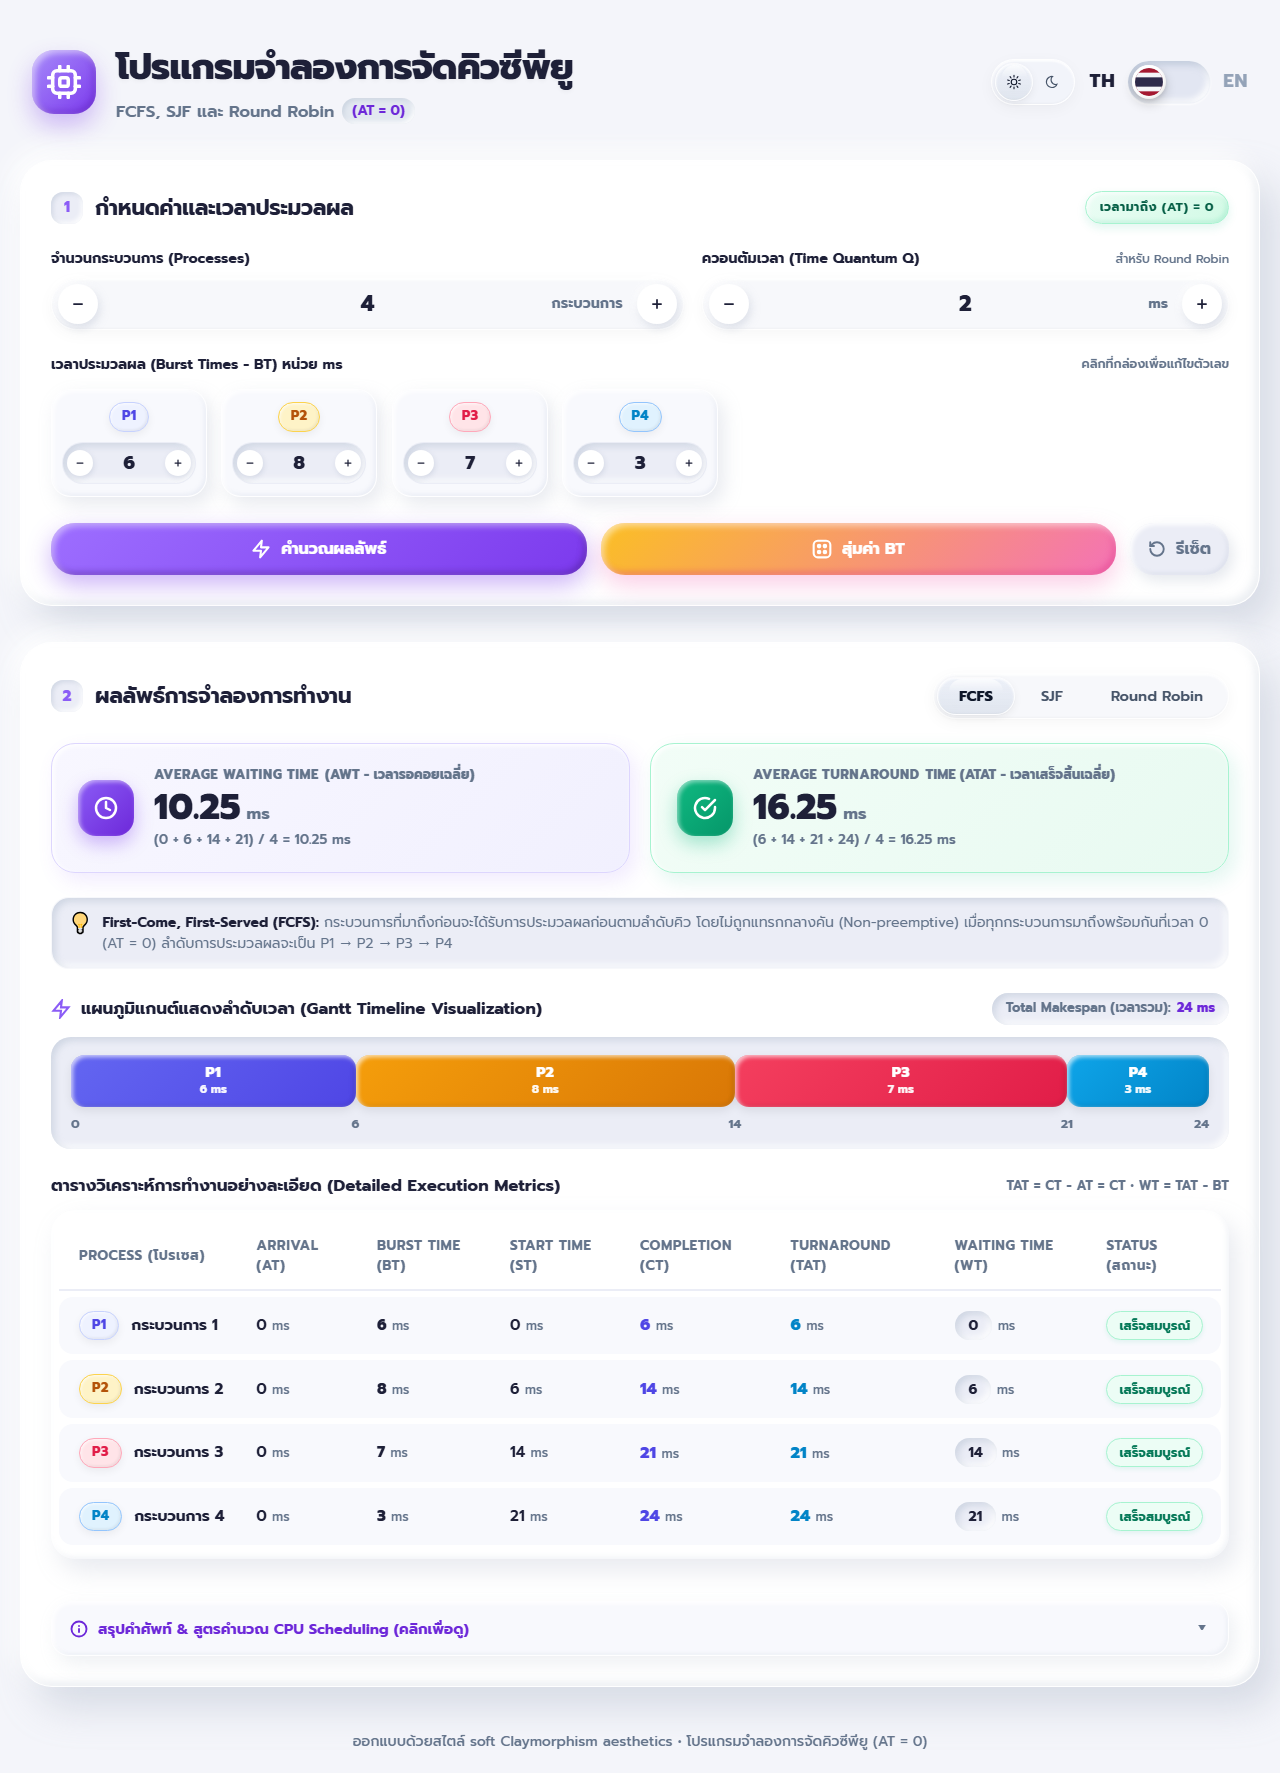
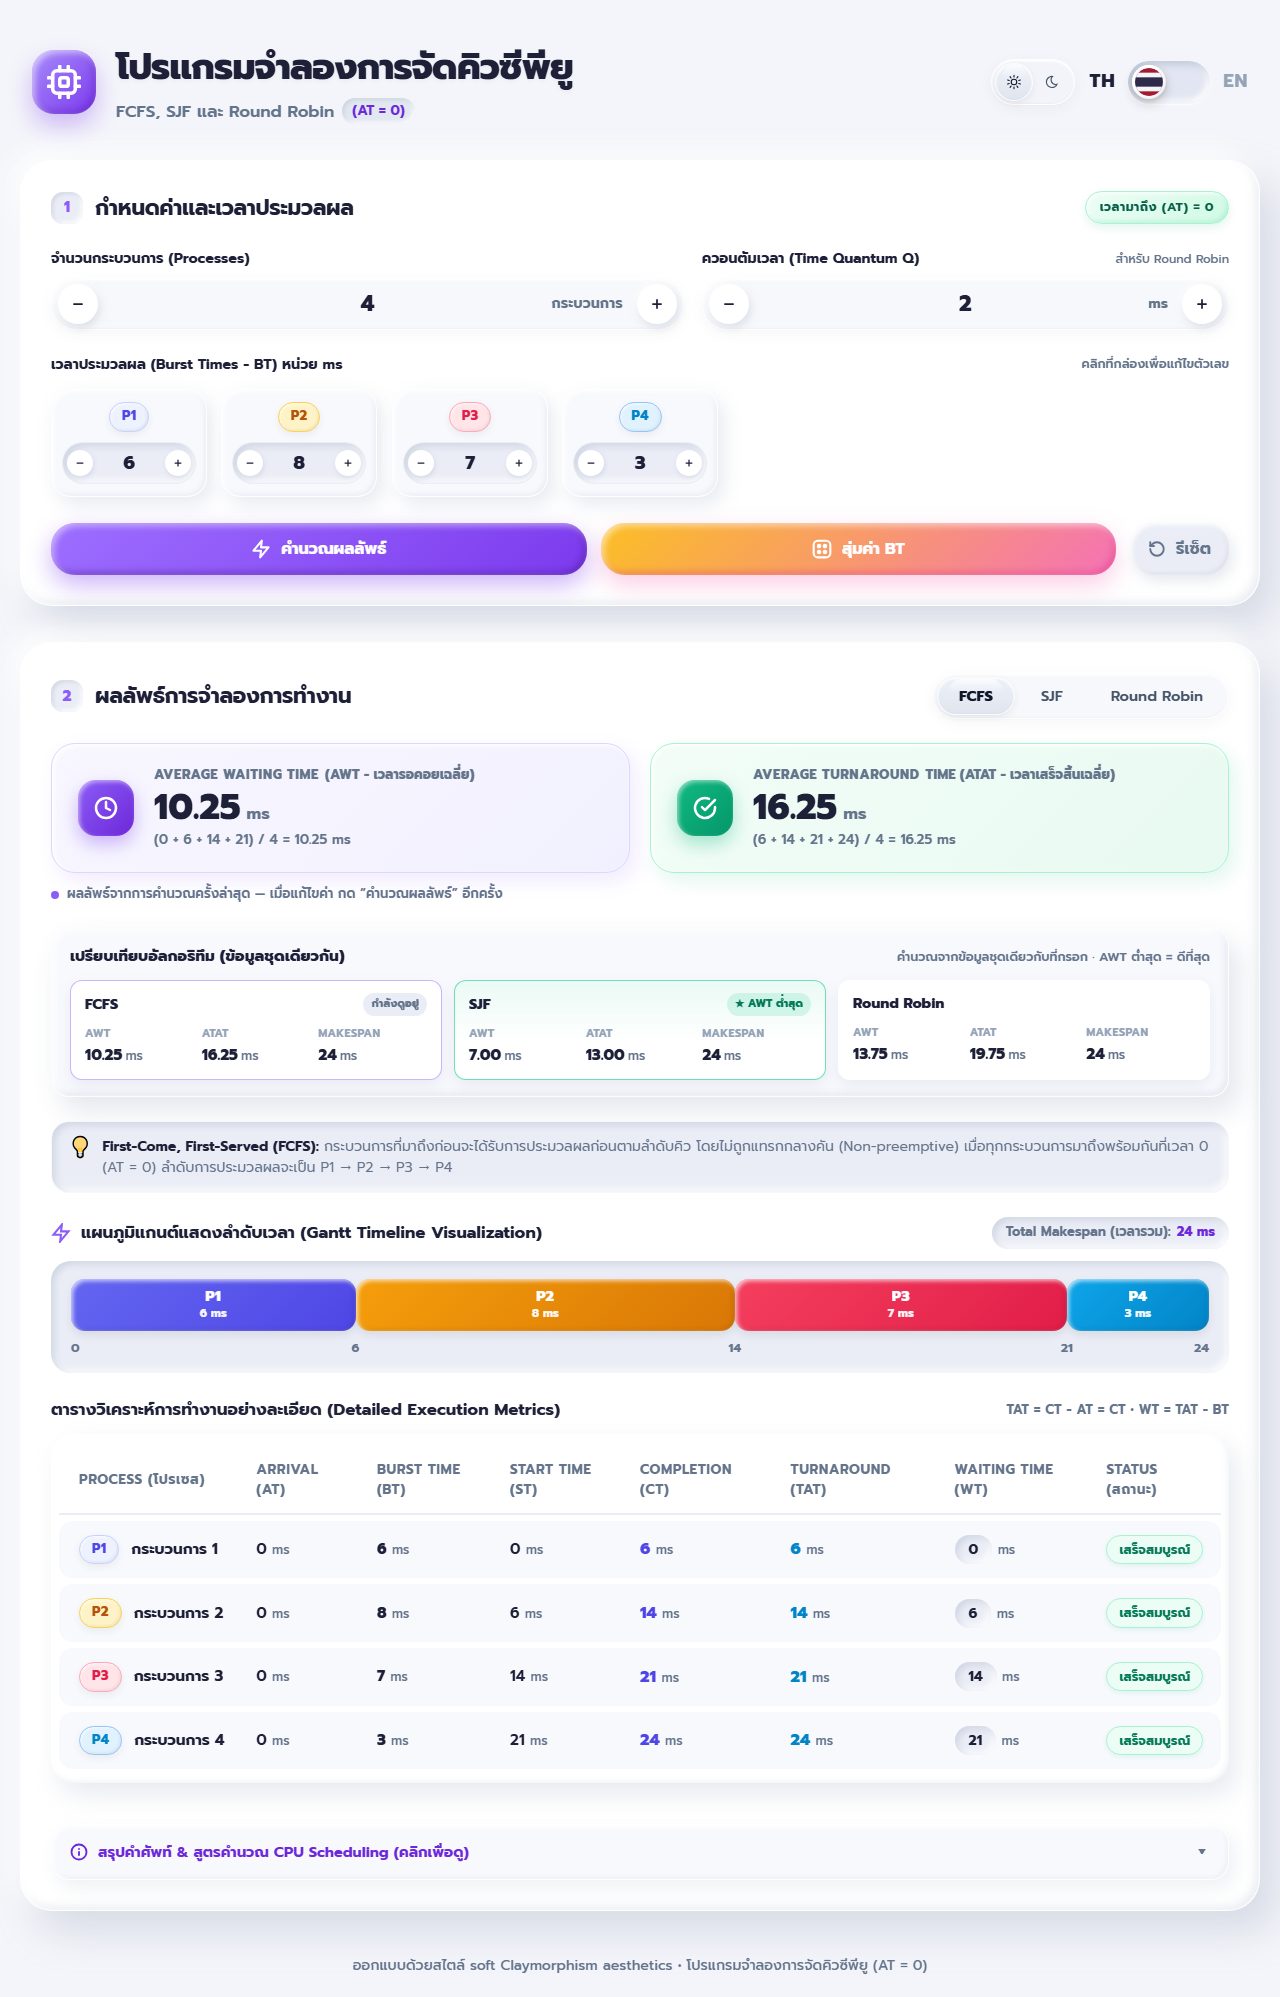
feat(ui): compare the three algorithms side by side
- add an algorithm comparison strip under the summary cards: FCFS, SJF and RR
  computed from the same input, showing AWT / ATAT / makespan, highlighting the
  lowest AWT and marking the algorithm currently on screen
- expose summariseAlgorithms() from app.js and share input reading through
  readSchedulingInputs() instead of duplicating it
- bilingual labels; the strip dims together with the rest of the results when
  they are stale, and re-renders on language change
- refresh the README screenshots and document the new strip

diff --git a/index.html b/index.html
@@ -334,6 +334,15 @@
           <!-- คำอธิบายสถานะผลลัพธ์ (ข้อความมาจาก i18n) -->
           <p class="results-hint" id="results-hint"></p>
 
+          <!-- แถบเปรียบเทียบ: คำนวณครบทั้งสามอัลกอริทึมจากข้อมูลชุดเดียวกับที่กรอก -->
+          <section class="compare-strip" id="compare-strip" aria-labelledby="compare-title">
+            <div class="compare-head">
+              <span class="compare-title" id="compare-title"></span>
+              <span class="compare-note" id="compare-note"></span>
+            </div>
+            <div class="compare-grid" id="compare-grid"></div>
+          </section>
+
           <!-- Algorithm Explanation Context Banner -->
           <div class="algo-explanation-box" id="algo-explanation">
             <span class="algo-info-icon" aria-hidden="true">💡</span>
@@ -492,6 +501,10 @@
           labelAtatTitle: "AVERAGE TURNAROUND",
           labelAtatSub: "TIME (ATAT - เวลาเสร็จสิ้นเฉลี่ย)",
           resultsHint: "ผลลัพธ์จากการคำนวณครั้งล่าสุด — เมื่อแก้ไขค่า กด “คำนวณผลลัพธ์” อีกครั้ง",
+          compareTitle: "เปรียบเทียบอัลกอริทึม (ข้อมูลชุดเดียวกัน)",
+          compareNote: "คำนวณจากข้อมูลชุดเดียวกับที่กรอก · AWT ต่ำสุด = ดีที่สุด",
+          compareBest: "AWT ต่ำสุด",
+          compareCurrent: "กำลังดูอยู่",
           labelGanttTitle: "แผนภูมิแกนต์แสดงลำดับเวลา (Gantt Timeline Visualization)",
           labelMakespanText: "Total Makespan (เวลารวม):",
           ganttChartAria: "แผนภูมิแกนต์แสดงลำดับการทำงานของซีพียู",
@@ -574,6 +587,10 @@
           labelAtatTitle: "AVERAGE TURNAROUND",
           labelAtatSub: "TIME (ATAT)",
           resultsHint: "Results from the last calculation — press “Calculate” again after editing any value.",
+          compareTitle: "Algorithm comparison (same input)",
+          compareNote: "Computed from the same input above · lowest AWT is best",
+          compareBest: "Lowest AWT",
+          compareCurrent: "Viewing now",
           labelGanttTitle: "Gantt Timeline Visualization",
           labelMakespanText: "Total Makespan:",
           ganttChartAria: "Gantt timeline chart displaying CPU execution sequence",
@@ -653,6 +670,8 @@
           'label-atat-title': t.labelAtatTitle,
           'label-atat-sub': t.labelAtatSub,
           'results-hint': t.resultsHint,
+          'compare-title': t.compareTitle,
+          'compare-note': t.compareNote,
           'label-gantt-title': t.labelGanttTitle,
           'label-makespan-text': t.labelMakespanText,
           'label-table-title': t.labelTableTitle,
@@ -834,6 +853,9 @@
         if (typeof updateCapsuleGlider === 'function') {
           updateCapsuleGlider(false);
         }
+
+        // แถบเปรียบเทียบ: อัปเดตภาษาของป้ายด้วย (ถ้าข้อมูลยังไม่ถูกต้องจะใช้ผลชุดเดิม)
+        renderComparison();
       }
 
       /* ==========================================================================
@@ -1034,6 +1056,71 @@
           return;
         }
         window.runSchedulingAlgorithm(algoKey || 'fcfs');
+        renderComparison();
+      }
+
+      // ผลสรุปของทั้งสามอัลกอริทึมชุดล่าสุด (ใช้วาดซ้ำเมื่อสลับภาษา)
+      let lastComparison = null;
+
+      /** ตรวจข้อมูลในฟอร์มแบบเร็ว ๆ ก่อนวาดแถบเปรียบเทียบ */
+      function inputsLookValid() {
+        const tqInput = document.getElementById('time-quantum');
+        const tq = parseInt(tqInput ? tqInput.value : '', 10);
+        if (!(tq >= 1 && tq <= 20)) return false;
+
+        const fields = document.querySelectorAll('.burst-number-input');
+        if (!fields.length || fields.length > 10) return false;
+
+        return Array.from(fields).every((inp) => {
+          const v = parseInt(inp.value, 10);
+          return Number.isInteger(v) && v >= 1 && v <= 50;
+        });
+      }
+
+      /**
+       * วาดแถบเปรียบเทียบ: ให้ engine คำนวณทั้งสามอัลกอริทึมจากข้อมูลชุดเดียวกัน
+       * ถ้าข้อมูลในฟอร์มยังไม่ถูกต้อง จะวาดซ้ำจากผลชุดล่าสุด (เพื่ออัปเดตภาษาเท่านั้น)
+       */
+      function renderComparison() {
+        const grid = document.getElementById('compare-grid');
+        if (!grid) return;
+
+        if (inputsLookValid() && typeof window.summariseAlgorithms === 'function') {
+          const fresh = window.summariseAlgorithms();
+          if (fresh && fresh.length) lastComparison = fresh;
+        }
+        if (!lastComparison) return;
+
+        const names = { fcfs: 'FCFS', sjf: 'SJF', rr: 'Round Robin' };
+        const activeTab = document.querySelector('.capsule-tab.active');
+        const activeKey = activeTab ? activeTab.getAttribute('data-algorithm') : 'fcfs';
+        const best = lastComparison.reduce((a, b) => (b.awt < a.awt ? b : a), lastComparison[0]);
+
+        grid.innerHTML = lastComparison.map((s) => {
+          const classes = ['compare-card'];
+          if (s.key === best.key) classes.push('is-best');
+          if (s.key === activeKey) classes.push('is-active');
+
+          let badge = '';
+          if (s.key === best.key) {
+            badge = `<span class="compare-badge">★ ${simText('compareBest', 'Lowest AWT')}</span>`;
+          } else if (s.key === activeKey) {
+            badge = `<span class="compare-badge compare-badge--muted">${simText('compareCurrent', 'Viewing now')}</span>`;
+          }
+
+          return `
+            <div class="${classes.join(' ')}">
+              <div class="compare-card-head">
+                <span class="compare-name">${names[s.key] || s.key}</span>
+                ${badge}
+              </div>
+              <dl class="compare-metrics">
+                <div><dt>AWT</dt><dd>${s.awt.toFixed(2)} <span class="unit-text">ms</span></dd></div>
+                <div><dt>ATAT</dt><dd>${s.atat.toFixed(2)} <span class="unit-text">ms</span></dd></div>
+                <div><dt>Makespan</dt><dd>${s.makespan} <span class="unit-text">ms</span></dd></div>
+              </dl>
+            </div>`;
+        }).join('');
       }
 
       // ปุ่มกดค้าง: เก็บเฉพาะ "ตัวหยุด" ที่ active อยู่ตัวเดียว

diff --git a/styles.css b/styles.css
@@ -1193,12 +1193,14 @@ body {
 
 /* สถานะ "ผลลัพธ์เก่า": ผู้ใช้แก้ค่าแต่ยังไม่กดคำนวณ → ลดความเด่นของผลลัพธ์ */
 #panel-content.is-stale .metrics-row,
+#panel-content.is-stale .compare-strip,
 #panel-content.is-stale .algo-explanation-box,
 #panel-content.is-stale .gantt-section,
 #panel-content.is-stale .table-section {
   opacity: 0.55;
 }
 #panel-content .metrics-row,
+#panel-content .compare-strip,
 #panel-content .algo-explanation-box,
 #panel-content .gantt-section,
 #panel-content .table-section {
@@ -1206,6 +1208,112 @@ body {
 }
 #panel-content.is-stale .results-hint::before {
   background: #F59E0B; /* ส้ม = ต้องคำนวณใหม่ */
+}
+
+/* ==========================================================================
+   Algorithm Comparison Strip
+   เทียบ FCFS / SJF / RR ด้วยข้อมูลชุดเดียวกัน (ตัวเลขมาจาก engine จริง)
+   ========================================================================== */
+.compare-strip {
+  background: var(--bg-card-alt);
+  border-radius: var(--radius-md);
+  padding: 16px 18px;
+  box-shadow: var(--clay-card-subtle);
+  border: 1px solid rgba(255, 255, 255, 0.7);
+}
+.compare-head {
+  display: flex;
+  align-items: baseline;
+  justify-content: space-between;
+  gap: 10px;
+  flex-wrap: wrap;
+  margin-bottom: 12px;
+}
+.compare-title {
+  font-family: var(--font-heading);
+  font-weight: 800;
+  font-size: 0.95rem;
+  color: var(--text-main);
+}
+.compare-note {
+  font-size: 0.78rem;
+  font-weight: 600;
+  color: var(--text-muted);
+}
+.compare-grid {
+  display: grid;
+  grid-template-columns: repeat(3, 1fr);
+  gap: 12px;
+}
+.compare-card {
+  background: var(--bg-card);
+  border: 1.5px solid transparent;
+  border-radius: var(--radius-sm);
+  padding: 12px 14px;
+  box-shadow: 0 6px 14px rgba(166, 175, 195, 0.18);
+}
+.compare-card.is-active {
+  border-color: rgba(139, 92, 246, 0.45);
+}
+.compare-card.is-best {
+  border-color: rgba(52, 211, 153, 0.7);
+  background:
+    linear-gradient(180deg, rgba(52, 211, 153, 0.1), transparent 62%),
+    var(--bg-card);
+}
+.compare-card-head {
+  display: flex;
+  align-items: center;
+  justify-content: space-between;
+  gap: 8px;
+  margin-bottom: 10px;
+}
+.compare-name {
+  font-family: var(--font-heading);
+  font-weight: 800;
+  font-size: 0.9rem;
+  color: var(--text-main);
+}
+.compare-badge {
+  font-size: 0.68rem;
+  font-weight: 800;
+  color: #047857;
+  background: rgba(52, 211, 153, 0.18);
+  border-radius: var(--radius-pill);
+  padding: 3px 8px;
+  white-space: nowrap;
+}
+.compare-badge--muted {
+  color: var(--text-muted);
+  background: var(--bg-inset);
+}
+.compare-metrics {
+  display: grid;
+  grid-template-columns: repeat(3, 1fr);
+  gap: 8px;
+  margin: 0;
+}
+.compare-metrics dt {
+  font-size: 0.68rem;
+  font-weight: 700;
+  letter-spacing: 0.03em;
+  text-transform: uppercase;
+  color: var(--text-light);
+}
+.compare-metrics dd {
+  margin: 2px 0 0;
+  display: flex;
+  align-items: baseline;
+  gap: 3px;
+  font-family: var(--font-heading);
+  font-weight: 800;
+  font-size: 0.95rem;
+  color: var(--text-main);
+}
+
+/* แถบเปรียบเทียบจัดเรียงเป็นคอลัมน์เดียวบนจอเล็ก */
+@media (max-width: 720px) {
+  .compare-grid { grid-template-columns: 1fr; }
 }
 
 /* ==========================================================================

diff --git a/app.js b/app.js
@@ -250,6 +250,47 @@
   let lastResult = null;
 
   /**
+   * อ่านข้อมูลจากฟอร์มแล้วคืนรายการโปรเซส + Time Quantum
+   * ใช้ร่วมกันระหว่างการคำนวณปกติและแถบเปรียบเทียบอัลกอริทึม
+   * @returns {{processes: Array<{id: string, numId: number, bt: number}>, tq: number}}
+   */
+  function readSchedulingInputs() {
+    const tqInput = document.getElementById('time-quantum');
+    const tq = tqInput ? (parseInt(tqInput.value, 10) || 2) : 2;
+
+    const processes = Array.from(document.querySelectorAll('.burst-number-input')).map((inp, idx) => {
+      let bt = parseInt(inp.value, 10);
+      if (isNaN(bt) || bt <= 0) bt = 1;
+      const numId = idx + 1;
+      return { id: `P${numId}`, numId: numId, bt: bt };
+    });
+
+    return { processes, tq };
+  }
+
+  /**
+   * สรุปผลของทั้งสามอัลกอริทึมจากข้อมูลชุดเดียวกัน (สำหรับแถบเปรียบเทียบ)
+   * @returns {Array<{key: string, awt: number, atat: number, makespan: number}>}
+   */
+  function summariseAlgorithms() {
+    const { processes, tq } = readSchedulingInputs();
+    if (!processes.length) return [];
+
+    const summarise = (key, result) => ({
+      key: key,
+      awt: parseFloat(result.awt),
+      atat: parseFloat(result.atat),
+      makespan: result.totalMakespanNum
+    });
+
+    return [
+      summarise('fcfs', calculateFCFS(processes)),
+      summarise('sjf', calculateSJF(processes)),
+      summarise('rr', calculateRR(processes, tq))
+    ];
+  }
+
+  /**
    * ดึงข้อมูล Input จากหน้าเว็บ ป้อนเข้าสู่อัลกอริทึม และแสดงผลบนหน้าจอ
    * @param {string} algoKey ('fcfs' | 'sjf' | 'rr')
    */
@@ -260,22 +301,8 @@
       || (activeTab ? activeTab.getAttribute('data-algorithm') : 'fcfs')
       || 'fcfs';
 
-    // 1. ตรวจสอบและดึงข้อมูลจากหน้าเว็บ
-    const burstInputs = document.querySelectorAll('.burst-number-input');
-    const tqInput = document.getElementById('time-quantum');
-    const tq = tqInput ? (parseInt(tqInput.value, 10) || 2) : 2;
-
-    const processes = [];
-    burstInputs.forEach((inp, idx) => {
-      let bt = parseInt(inp.value, 10);
-      if (isNaN(bt) || bt <= 0) bt = 1;
-      const numId = idx + 1;
-      processes.push({
-        id: `P${numId}`,
-        numId: numId,
-        bt: bt
-      });
-    });
+    // 1. ดึงข้อมูลจากหน้าเว็บ (โปรเซสที่ bt <= 0 จะถูกบังคับเป็น 1)
+    const { processes, tq } = readSchedulingInputs();
 
     if (processes.length === 0) return;
 
@@ -432,6 +459,7 @@
   window.calculateRR = calculateRR;
   window.runSchedulingAlgorithm = runSchedulingAlgorithm;
   window.rerenderLastResult = rerenderLastResult;
+  window.summariseAlgorithms = summariseAlgorithms;
 
   // หมายเหตุ: การคำนวณรอบแรกถูกสั่งจาก index.html (initBurstInputs → updateLanguage)
   // จึงไม่ต้องใช้ setTimeout รอ DOM แบบเดิมอีก และไม่เกิด race ระหว่างสองไฟล์

diff --git a/README.md b/README.md
@@ -27,6 +27,7 @@ An interactive, responsive CPU-scheduling simulator built with vanilla HTML/CSS/
 - **Gantt timeline** — the bar is a CSS grid whose columns are `BT fr` units, so every block edge lines up exactly with its timestamp. With more than 8 slices the chart switches to a compact mode (smaller radius, slice durations hidden) and the axis thins out its labels instead of overlapping them.
 - **Metrics table** — Arrival Time (always 0), Burst Time, Start Time, Completion Time, Turnaround Time, Waiting Time and status for every process.
 - **Summary cards** — Average Waiting Time and Average Turnaround Time with the full arithmetic, e.g. `(0 + 6 + 14 + 21) / 4 = 10.25 ms`, plus the total makespan.
+- **Algorithm comparison** — FCFS, SJF and Round Robin are all computed from the same input and shown side by side (AWT, ATAT and makespan); the lowest AWT is highlighted and the algorithm currently on screen is marked.
 
 ### Input & controls
 
